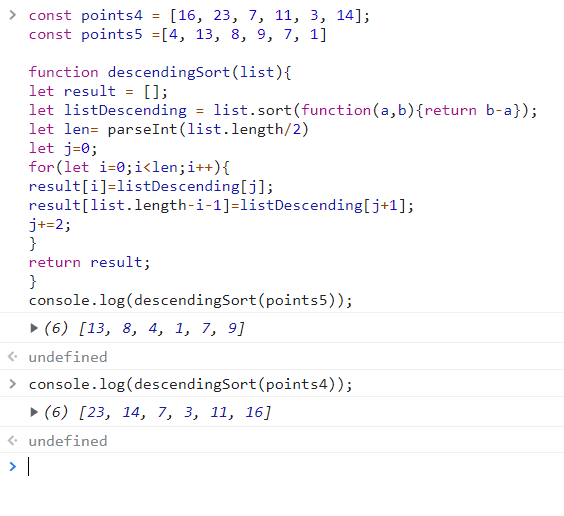
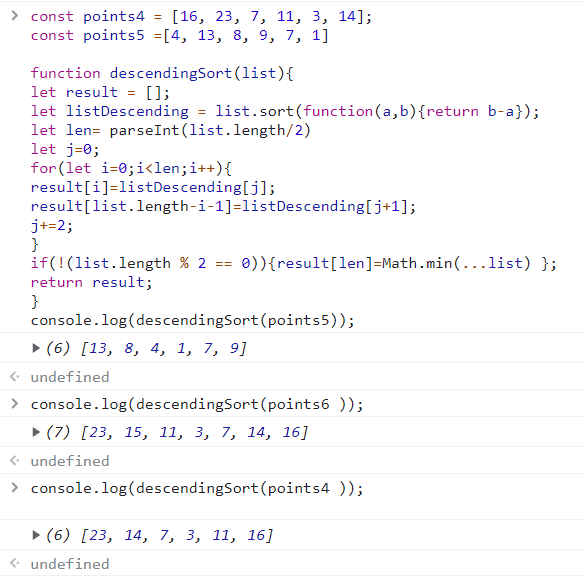
added case where the list is odd

diff --git a/StoneityCase/StoneityCase .js b/StoneityCase/StoneityCase .js
@@ -11,6 +11,7 @@ result[i]=listDescending[j];
 result[list.length-i-1]=listDescending[j+1];
 j+=2;
 }
+if(!(list.length % 2 == 0)){result[len]=Math.min(...list) };
 return result;
 }
 console.log(descendingSort(points5));

diff --git a/StoneityCase/README.md b/StoneityCase/README.md
@@ -10,6 +10,7 @@ Pattern;
 
 
 Önce verilen arrayi azalan değerde sıraladım. Sonra ikişerli sıralamada yukarıdaki patternin olduğunu fark ettim. Bunun için for döngüsünde arrayin yarısı kadar uzunlukta birer birer artan ve ikişer ikişer artan indeksler için de ikişerli artan değer tanımlayarak sorunu çözdüm.
+Son olarak eğer liste tek elemanlıysa ortanca elemana minimum elemanı ekledim.
 
 
 
